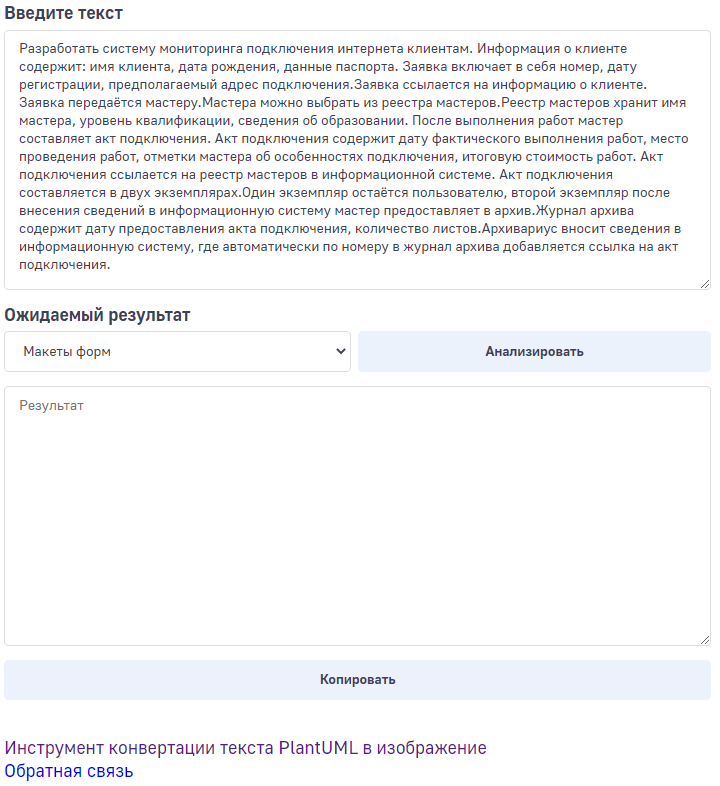
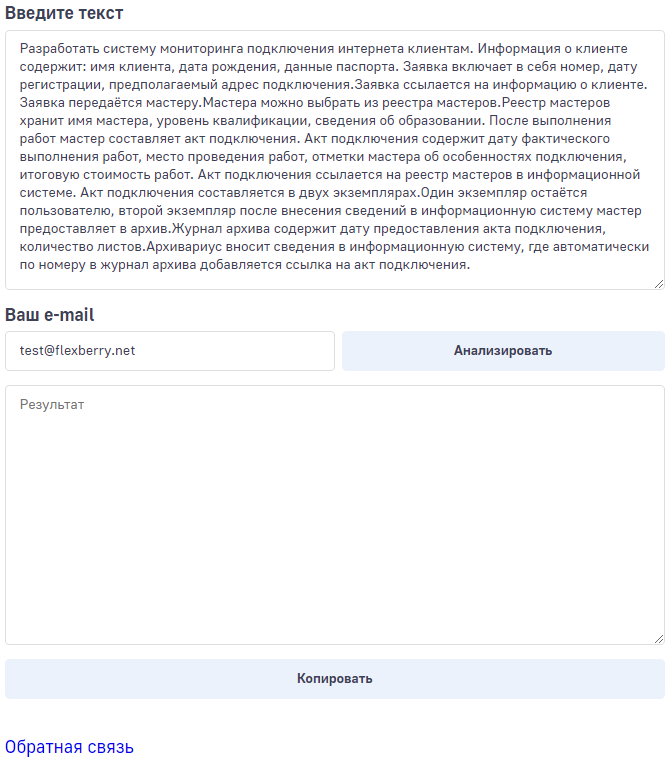
Update site

diff --git a/index.html b/index.html
@@ -159,9 +159,6 @@
         <span>строить UML диаграмму классов и SQL для формирования базы данных</span>
       </div>
     </div>
-    <div class="text-center">
-      <iframe width="560" height="315" src="https://www.youtube.com/embed/ehCbA5gOMQw" title="YouTube video player" frameborder="0" allow="accelerometer; autoplay; clipboard-write; encrypted-media; gyroscope; picture-in-picture" allowfullscreen></iframe>
-    </div>
     <div class="row mt-5">
       <div class="col-lg-12 text-center buttons-list">
         <a class="btn btn-primary" href="" data-toggle="modal" data-target="#send-modal">Купить</a>
@@ -201,21 +198,14 @@
       <div class="col-lg-6 col-md-6 col-sm-6 col-12">
         <p>Ассистент представлен на <a href="https://ai.flexberry.ru/demo" target="_blank">демо-странице</a>.</p>
         <p>Текст для обработки нужно вставить в соответствующее поле.</p>
-        <p>Затем он передается для обработки в ИИ-алгоритм, а полученный результат 
-          предоставляется пользователю.</p>
-      </div>
-      <div class="col-lg-6 col-md-6 col-sm-6 col-12 order-md-2">
-        <img class="img-fluid" src="/img/howitwork2.png"/>
-        </span>
-      </div>
-      <div class="col-lg-6 col-md-6 col-sm-6 col-12 order-md-1">
-        <p>Доступен выбор варианта желаемого результата обработки текста.</p>
+        <p>Затем он передается для обработки в ИИ-алгоритм, а полученный результат предоставляется пользователю.</p>
       </div>
       <div class="col-lg-6 col-md-6 col-sm-6 col-12 order-md-2">
         <img class="img-fluid" src="/img/howitwork3.png"/>
+        </span>
       </div>
-      <div class="col-lg-6 col-md-6 col-sm-6 col-12 order-md-2">
-        <p>Например, при выборе "Макеты форм" появится cписок сгенерированных макетов: списковые и формы редактирования для каждого распознанного класса.</p>
+      <div class="col-lg-6 col-md-6 col-sm-6 col-12 order-md-1">
+        <p>Результаты в некоторых случаях отображаются сразу (для всех сущностей формируются списковые формы и формы редактирования).</p>
       </div>
       <div class="col-12 order-md-2">
         <img class="img-fluid" src="/img/howitwork4.png"/>
@@ -223,18 +213,23 @@
       <div class="col-12 order-md-2">
         <img class="img-fluid" src="/img/howitwork5.png"/>
       </div>
-    
+      <div class="col-lg-6 col-md-6 col-sm-6 col-12 order-md-2">
+        <img class="img-fluid" src="/img/howitwork2.png"/>
+      </div>
+      <div class="col-lg-6 col-md-6 col-sm-6 col-12 order-md-2">
+        <p>В некоторых случаях результат придёт позднее на указанный электронный адрес.</p>
+      </div>
       <div class="col-lg-6 col-md-6 col-sm-6 col-12  order-md-2">
         <img class="img-fluid" src="/img/howitwork6.png"/>
       </div>
       <div class="col-lg-6 col-md-6 col-sm-6 col-12  order-md-2">
-        <p>При выборе "UML диаграмма классов" полученный результат можно скопировать и отправить на дальнейшую обработку.</p>
-      </div>
-      <div class="col-lg-6 col-md-6 col-sm-6 col-12 order-md-3">
         <img class="img-fluid" src="/img/howitwork7.png"/>
       </div>
+      <div class="col-lg-6 col-md-6 col-sm-6 col-12 order-md-3">
+        <img class="img-fluid" src="/img/howitwork8.png"/>
+      </div>
       <div class="col-lg-6 col-md-6 col-sm-6 col-12 order-md-2">
-        <p>Например, в <a href="https://www.planttext.com/" target="_blank">planttext.com</a>. В результате получится UML Диаграмма классов со связями.</p>
+        <img class="img-fluid" src="/img/howitwork9.png"/>
       </div>
     </div>
   </div>
